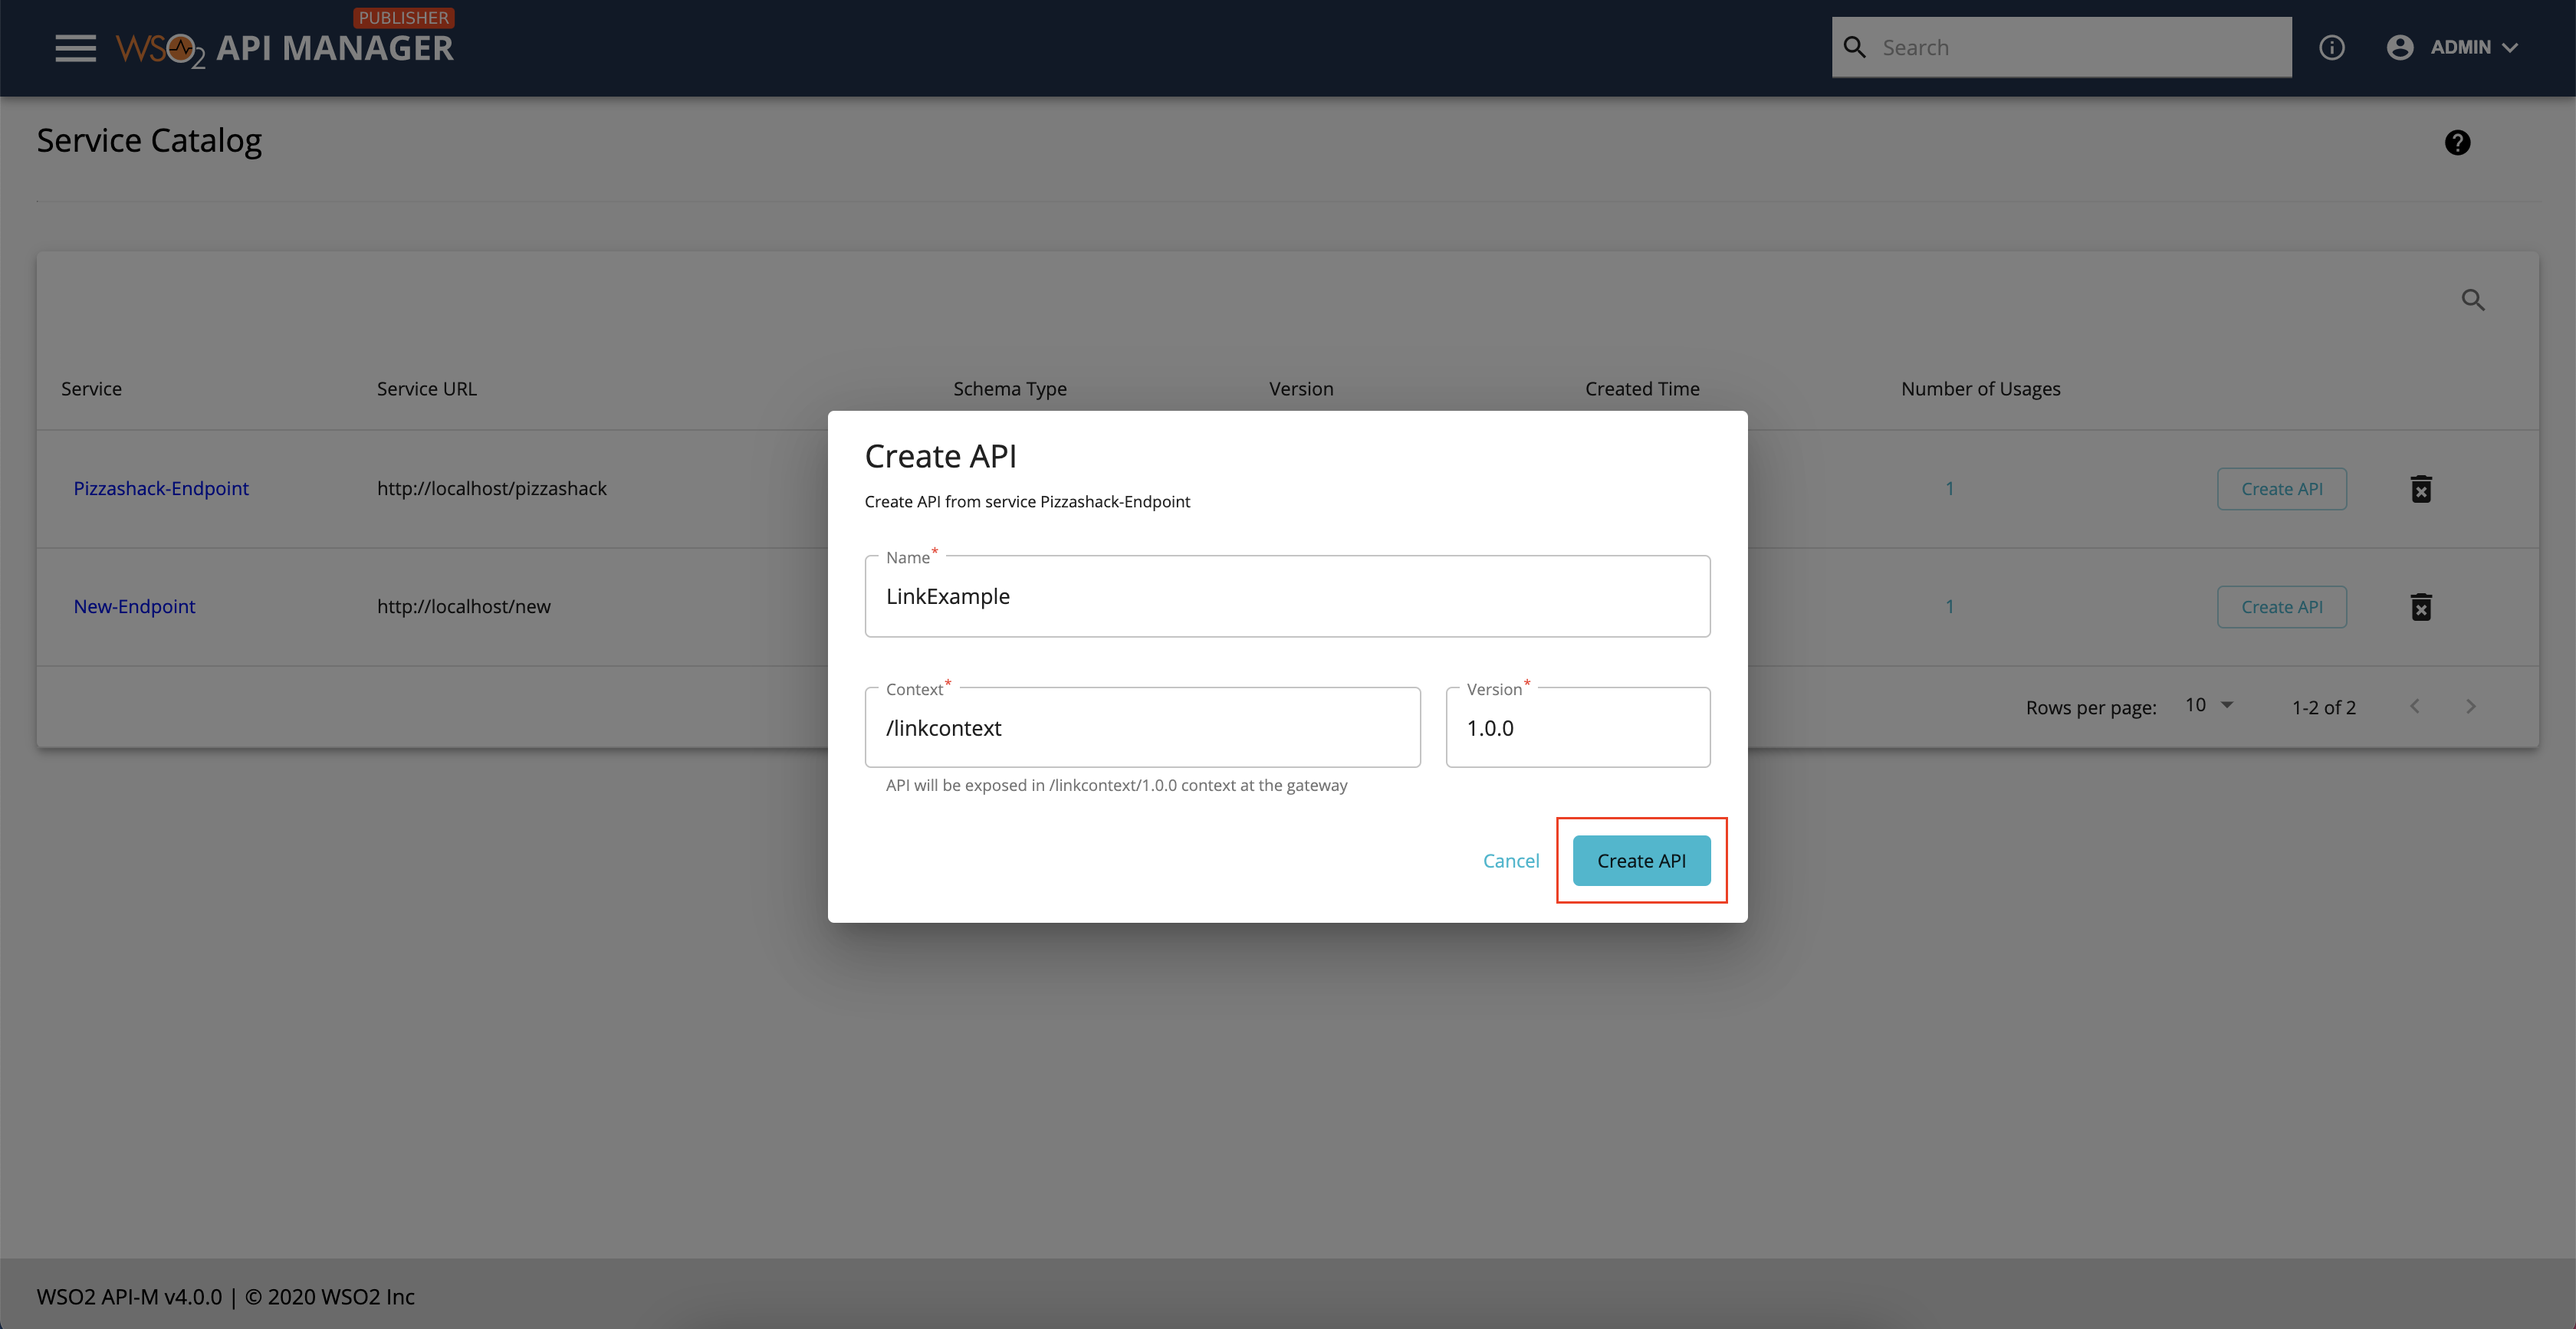
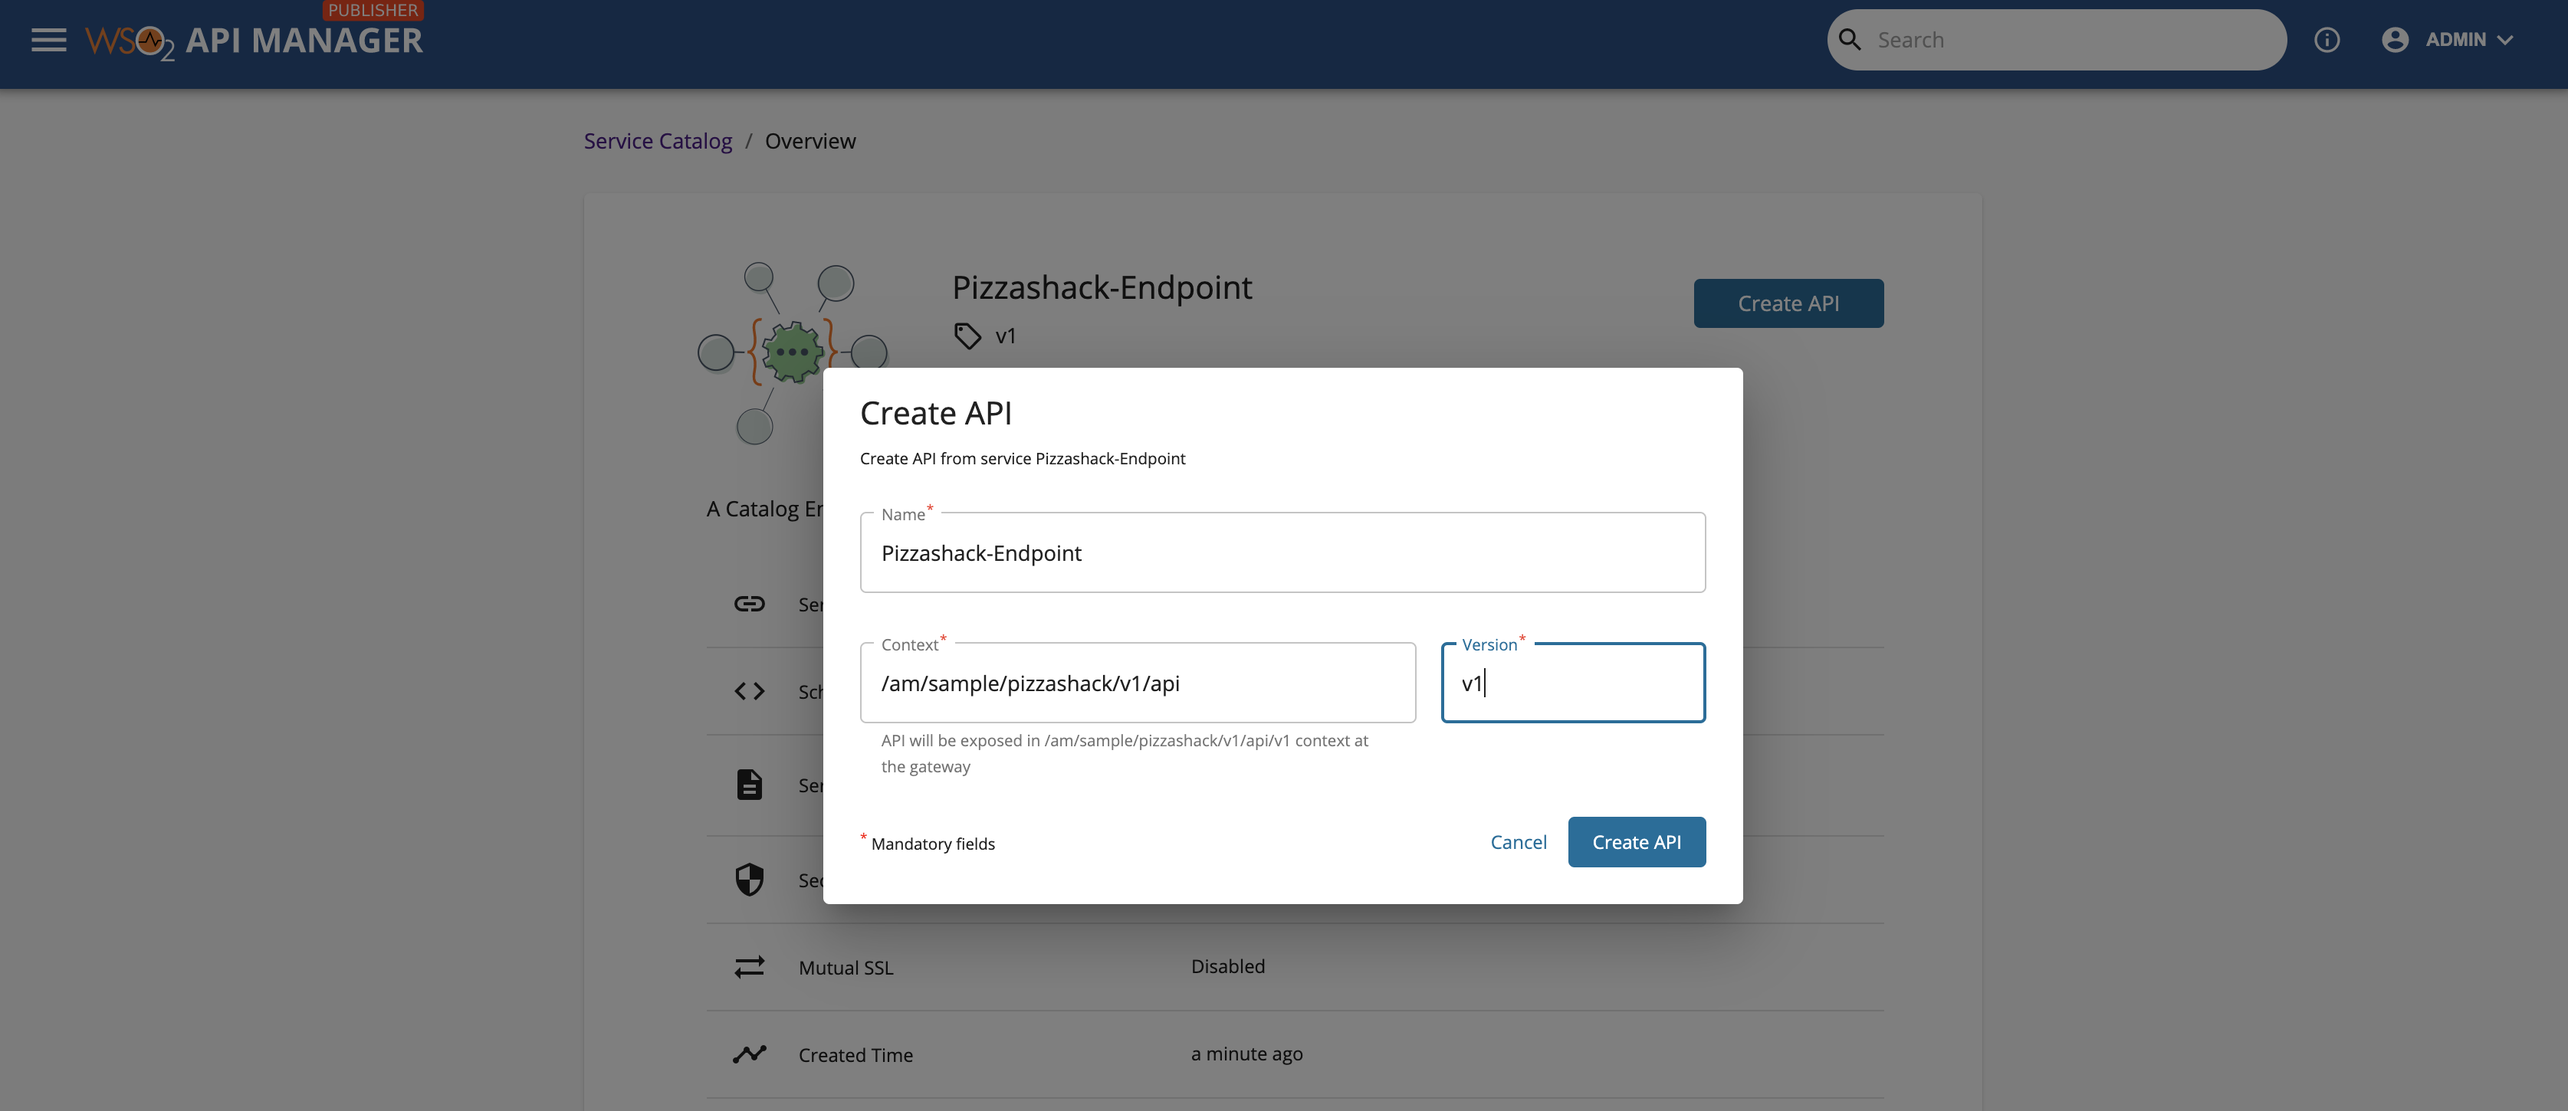
service catalog documentation

diff --git a/en/docs/integrate/develop/working-with-service-catalog.md b/en/docs/integrate/develop/working-with-service-catalog.md
@@ -1,81 +1,79 @@
-# Working with Service Catalog
+# Publish Integrations to the Service Catalog
 
-Service Catalog is one of the main attributes which enables the API-first Integration in WSO2 API Manager. Through the Service Catalog, integration services are made discoverable to the API Management layer so that API proxies can directly be created using them.
+The **Service Catalog** connects the integation layer and the API management layer of WSO2 API-M 4.0.0. The integration services (REST APIs artifacts) that you develop using WSO2 Integration Studio can be published to the service catalog during deployment. 
 
-## Getting Started with Service Catalog
+This allows API creators to create new API proxies from integration services and expose them to an API marketplace where application developers can discover and use them. An API proxy created from the API Publisher is a managed API. That is, API managers can control the API's lifecycle, apply security, and rate limiting conditions. These API proxies can be monitized and exposed in an API marketplace. Therefore, by using the service catalog, integration services with complex mediation sequences can easily be converted to managed APIs and exposed to an API marketplace.
 
-1. Go to the **Publisher Portal** (https://localhost:9443/publisher)
-2. Click on the **Hamburger Icon** on the top left corner of the page.
-3. Select the **Service Catalog** Menu as follows.
+As an integration developer, be mindful of the following requirements when you develop integrations for the **Service Catalog**:
 
-![Service Catalog Menu]({{base_path}}/assets/img/integrate/service-catalog/go-to-service-catalog.png)
+## Update the service metadata
 
-If this is the first time you work with the Service Catalog, you will see the following **onboarding page** where you can easily get started with your first integration service.
+When you create a REST API artifact from WSO2 Integration Studio, a **resources** folder with metadata files are created as shown below.
 
-![Service Catalog Onboarding Page]({{base_path}}/assets/img/integrate/service-catalog/service-catalog-onboarding-page.png)
+<img src="{{base_path}}/assets/img/integrate/tutorials/service-catalog/metadata-folder-service-catalog.png" width="400">
 
-There are 2 options where you can either
+The service's metadata will be used by the API management runtime to generate the API proxy for the service.
 
-1. Deploy a sample service by clicking on the **Add Sample Service** button or,
-2. Deploy your own Integration Service through the Micro Integrator. You can get the relevant instructions by clicking on the **Get Started** button. 
+<table>
+    <tr>
+        <th>
+            Parameter
+        </th>
+        <th>
+            Description
+        </th>
+    </tr>
+    <tr>
+        <td>
+            description
+        </td>
+        <td>
+            Explain the purpose of the API.
+        </td>
+    </tr>
+    <tr>
+        <td>
+            serviceUrl
+        </td>
+        <td>
+            This is the URL of the API when it gets deployed in the Micro Integrator. You (as the integration developer) may not know this URL during development. Therefore, you can parameterize the URL to be resolved later using environment variables. By default, the <code>{host}</code> and <code>{port}</code> values are parameterized with placeholders.</br></br>
+            You can configure the serviceUrl in the following ways:
+            <ul>
+                <li>
+                    Add the complete URL without parameters. For example: <code>http://localhost:8290/healthcare</code>.</br>
+                </li>
+                <li>
+                    Parameterize using the host and port combination. For example: <code>http://{host}:{port}/healthcare</code>.
+                </li>
+                <li>
+                    Parameterize using a preconfigured URL. For example: <code>http://{url}/healthcare</code>.
+                </li>
+            </ul>
+        </td>
+    </tr>
+</table>
 
-## Manage Services
+!!! Tip
+    See the [Service Catalog API documentation]({{base_path}}/reference/product-apis/service-catalog-apis/service-catalog-v1/service-catalog-v1/) for more information on the metadata in the YAML file.
 
-#### Discover Services
+## Enable the Service Catalog client
 
-Once you have services deployed, you can view the list of available services by accessing the Service Catalog Menu. 
+The Micro Integrator contains a client for publishing integrations to the Service Catalog. Be sure to enable the following configurations in the `deployment.toml` file of your Micro Integrator.
 
-1. Click on the **Hamburger Icon** in the top left corner of the web page.
-2. Select the **Service Catalog** Menu.
+```toml
+[[service_catalog]]
+apim_host = "https://localhost:9443"
+enable = true
+username = "admin"
+password = "admin"
+```
 
-Here you will not see an onboarding page but a listing of the deployed services as follows. You can **view** and **search** for all the deployed services from this interface. To search for services, click on the search icon on the top right corner of the listing table shown in the diagram below.
+## Start the servers
 
-![Service Catalog Listing Page]({{base_path}}/assets/img/integrate/service-catalog/service-catalog-listing.png)
+Once you have created the integration service and deployed it in the Micro Integrator, you only need to start the two servers (API-M server and the Micro Integrator server). Note that the API-M server should be started before the Micro Integrator. The Service Catalog client in the Micro Integrator publishes the integration services to the API-M layer during server startup.
 
-#### View information of a specific Service
+## Create an API from a service
 
-You can view the detailed information of a specific service by clicking on the **Service** name from the service listing page.
+Once the servers are started and the services are published, you can sign in to the **Publisher** of WSO2 API-M, access the **Service Catalog**, and then create an API for the service.
 
-Click on **Hamburger Icon** -> Select **Service Catalog** -> Click on the **service name**
-
-![Click on service name]({{base_path}}/assets/img/integrate/service-catalog/service-name.png)
-
-You will be directed to the **service overview** page as follows where you can view service information such as service name, version, description, usages in APIs and other important metadata.
-
-![Service Overview]({{base_path}}/assets/img/integrate/service-catalog/service-overview.png)
-
-##### Download a Service Definition
-
-Through the service overview page, it is possible to download the service definition. For this you can click on the **Download** button against the Service Definition as shown below.
-
-Click on the **service name** from the listing -> Go to **Service Definition** -> Click **Download**
-
-![Download Service]({{base_path}}/assets/img/integrate/service-catalog/download-service.png)
-
-##### View the Service Definition
-
-To view the definition of a service, you can click on the **View Definition** button in the service overview page.
-
-Click on the **service name** from the listing -> Go to **Service Definition** -> Click **View Definition**
-
-![View service definition]({{base_path}}/assets/img/integrate/service-catalog/view-service-definition.png)
-
-#### View APIs that use a specific Service
-
-In order to view the list of APIs that use a specific service, you can click on the **Number of Usages** in the **service listing** page or click on the link depicting the number of usages in the **service overview** page as shown below.
-
-![API usage in Service Listing page]({{base_path}}/assets/img/integrate/service-catalog/service-listing-usage.png)
-
-![API usage in Service Overview page]({{base_path}}/assets/img/integrate/service-catalog/service-overview-usage.png)
-
-You can access the relevant API from the API usage list by clicking on the API name as shown below.
-
-![API usage list]({{base_path}}/assets/img/integrate/service-catalog/service-usage-view.png)
-
-## Create an API from a Service
-
-You can create an API from a service by clicking on the **Create API** button in the service listing page or the service overview page.
-
-![Create API from Service]({{base_path}}/assets/img/integrate/service-catalog/create-api-from-service.png)
-
-Provide the API Name, Context and Version where all fields are mandatory, and click **Create API**. You will then be directed to the overview page of the API created from the service.
+See [Creating a REST API from a integration service]({{base_path}}/design/create-api/create-api-from-service).

diff --git a/en/docs/design/create-api/create-api-from-service.md b/en/docs/design/create-api/create-api-from-service.md
@@ -1,0 +1,70 @@
+# Create a REST API from an Integration Service
+
+You can create a new REST API by using an integration service that is running in the integration layer (Micro Integrator) of WSO2 API Manager. That is, the backend of the REST API you create is the integration service that is running on the Micro Integrator. This allows you to expose integration services as managed APIs.
+
+To create an API from a service, the integration service should already be published to the **Service Catalog** of the API-M layer by the integration layer.
+
+## Step 1: Discover services
+
+To discover integration services:
+
+1.  Go to the **Publisher Portal**: `https://localhost:9443/publisher`
+2.  Click the **Hamburger** in the upper left corner of the **Publisher** and click **Service Catalog** as shown below.
+
+    <a href="{{base_path}}/assets/img/integrate/service-catalog/select-service-catalog.png"><img src="{{base_path}}/assets/img/integrate/tutorials/service-catalog/select-service-catalog.png" alt="open service catalog" width="200"></a>
+
+    You will see the list of available integration services:
+
+    <a href="{{base_path}}/assets/img/integrate/service-catalog/services-catalog-list.png"><img src="{{base_path}}/assets/img/integrate/tutorials/service-catalog/services-catalog-list.png" alt="service catalog listings"></a>
+
+4.  Use the **search** option to find a specific service.
+
+## Step 2: View details of the service
+
+Click the service from the catalog to view the service details. 
+
+You can view the service name, version, description, usages in APIs, and other important metadata.
+
+<a href="{{base_path}}/assets/img/integrate/service-catalog/service-overview.png"><img src="{{base_path}}/assets/img/integrate/service-catalog/service-overview.png" alt="service overview"></a>
+
+**Download a service definition**
+
+If required, you can **download** the service definition.
+
+**View the service definition**
+
+If you want to see the service definition before creating an API, click **View Definition**:
+
+<a href="{{base_path}}/assets/img/integrate/service-catalog/view-api-definition.png"><img src="{{base_path}}/assets/img/integrate/service-catalog/view-api-definition.png" alt="view api definition"></a>
+
+## Step 3: Create an API from the service
+
+1.  Open the service and click **Create API** to open the **Create API** dialog box.
+
+    <a href="{{base_path}}/assets/img/integrate/service-catalog/create-api-from-service.png"><img src="{{base_path}}/assets/img/integrate/service-catalog/create-api-from-service.png" alt="create api dialog box"></a>
+
+2.  Provide the API name, context, and version (mandatory details), and click **Create API**. 
+
+    The new API is now listed the **APIs** tab:
+
+    <a href="{{base_path}}/assets/img/integrate/service-catalog/new-api-list.png"><img src="{{base_path}}/assets/img/integrate/service-catalog/new-api-list.png" alt="apis list"></a>
+
+    The API is now created.
+
+3.  Click the API to update configurations and to manage the API.
+
+    <a href="{{base_path}}/assets/img/integrate/service-catalog/new-api-view.png"><img src="{{base_path}}/assets/img/integrate/service-catalog/new-api-view.png" alt="apis list"></a>
+
+Once you complete configuring the API, [Publish the API]({{base_path}}/deploy-and-publish/publish-on-dev-portal/publish-an-api/).
+
+!!! More
+
+        Click the following topics to learn more on the concepts that you need to know when creating an API:
+       -   [API Visibility]({{base_path}}/design/advanced-topics/control-api-visibility-and-subscription-availability-in-developer-portal/)
+       -   [Endpoints]({{base_path}}/design/endpoints/endpoint-types/)
+       -   [Throttling Tiers]({{base_path}}/design/rate-limiting/introducing-throttling-use-cases/)
+       -   [Custom Properties]({{base_path}}/design/create-api/adding-custom-properties-to-apis/)
+       -   [API Security]({{base_path}}/design/api-security/api-authentication/secure-apis-using-oauth2-tokens)
+       -   [Life Cycle Management]({{base_path}}/design/lifecycle-management/api-lifecycle/)
+       -   [API Documentation]({{base_path}}/design/api-documentation/add-api-documentation/)
+       -   [API Monetization]({{base_path}}/design/api-monetization/monetizing-an-api/)

diff --git a/en/docs/integrate/api-led-integration.md b/en/docs/integrate/api-led-integration.md
@@ -45,7 +45,7 @@ The high-level steps are as follows:
 
 2.  **Publish the integration service**
 
-    Once you have created the integration service and deployed it in the Micro Integrator, you only need to start the two servers (API-M server and the Micro Integrator server). Note that the API-M server should be started before the Micro Integrator. The Micro Integrator uses the meta data in the integration service and publish the service to the API-M layer during server startup.
+    Once you have created the integration service and deployed it in the Micro Integrator, you only need to start the two servers (API-M server and the Micro Integrator server). Note that the API-M server should be started before the Micro Integrator. The Service Catalog client in the Micro Integrator publishes the integration services to the API-M layer during server startup.
 
 3.  **Create the API proxy**
 
